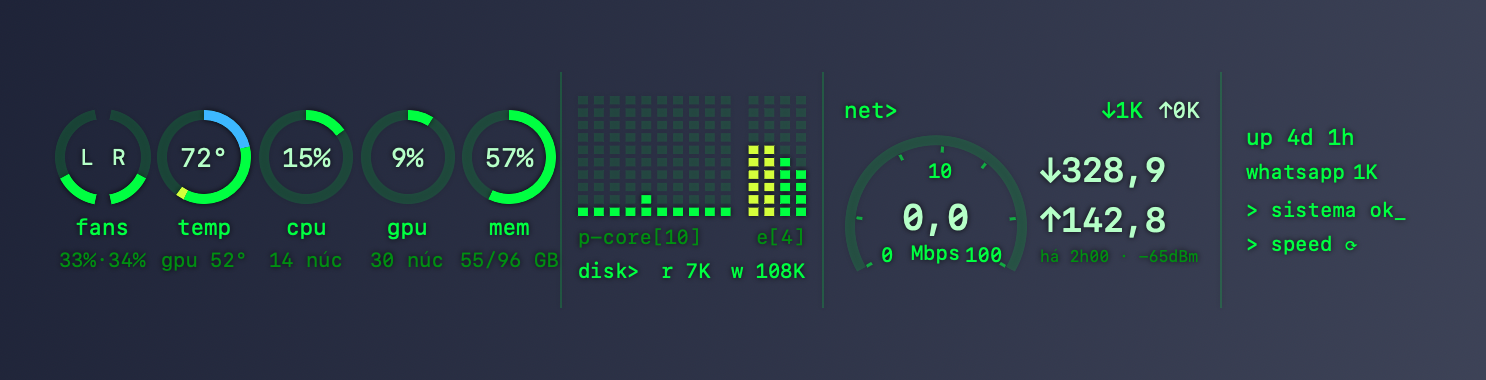
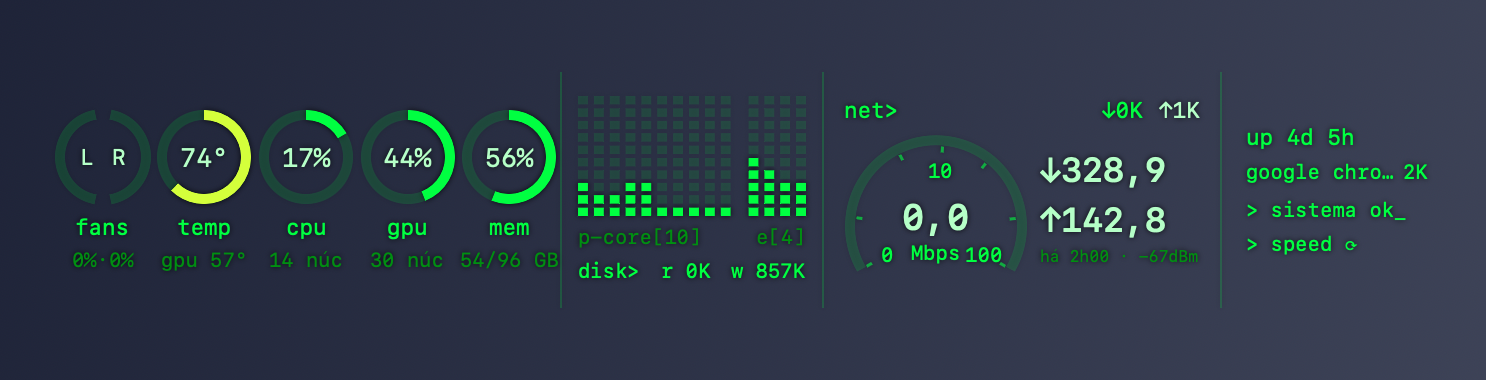
fix(temperature): one band color per ring and mean of the 3 hottest sensors
The multi-color arc was hard to read, and a single core spiking for a
moment showed alarming peaks (101 °C) that did not match the chip.

diff --git a/Sources/ePerformanceView/Status.swift b/Sources/ePerformanceView/Status.swift
@@ -42,7 +42,7 @@ enum Level: Int, Comparable {
 }
 
 /// One gauge: a ring filled to `value` (0...100), colored by `level`, with a symbol inside.
-/// A `heat` gauge is painted cold-to-hot along the arc instead of with one level color.
+/// A `heat` gauge takes the color of its cold-to-hot band (blue, green, yellow, red).
 struct Gauge {
     let symbol: String
     let value: Double?          // nil = not available (no fan)
@@ -51,7 +51,7 @@ struct Gauge {
     var heat = false
 }
 
-/// Cold-to-hot scale for temperatures: the ring spans 30-100 °C and changes color at each band.
+/// Cold-to-hot scale for temperatures: the ring spans 30-100 °C and its color is the current band.
 enum Heat {
     static let floor = 30.0, ceiling = 100.0
     /// Upper bound of each band and its color, coldest first.
@@ -66,19 +66,6 @@ enum Heat {
     static func fraction(_ celsius: Double) -> Double { max(0, min(1, (celsius - floor) / (ceiling - floor))) }
     static func band(_ celsius: Double) -> (upTo: Double, name: String, color: NSColor) {
         bands.first { celsius < $0.upTo } ?? bands[bands.count - 1]
-    }
-
-    /// The filled part of the ring split into colored pieces, as (from, to) fractions.
-    static func segments(upTo celsius: Double) -> [(from: Double, to: Double, color: NSColor)] {
-        let end = max(0.04, fraction(celsius))
-        var start = 0.0, result: [(Double, Double, NSColor)] = []
-        for band in bands {
-            let stop = min(end, band.upTo.isFinite ? fraction(band.upTo) : 1)
-            if stop > start { result.append((start, stop, band.color)) }
-            start = stop
-            if start >= end { break }
-        }
-        return result
     }
 }
 
@@ -204,14 +191,14 @@ enum MenuBarImage {
         guard let value else { return }
 
         if heat {
-            for piece in Heat.segments(upTo: value) {
-                let arc = NSBezierPath()
-                arc.appendArc(withCenter: center, radius: radius, startAngle: 90 - 360 * piece.from,
-                              endAngle: 90 - 360 * piece.to, clockwise: true)
-                arc.lineWidth = 2.2
-                piece.color.setStroke()
-                arc.stroke()
-            }
+            // One color for the whole arc, the band the temperature is in now.
+            let arc = NSBezierPath()
+            arc.appendArc(withCenter: center, radius: radius, startAngle: 90,
+                          endAngle: 90 - 360 * max(0.04, Heat.fraction(value)), clockwise: true)
+            arc.lineWidth = 2.2
+            arc.lineCapStyle = .round
+            Heat.band(value).color.setStroke()
+            arc.stroke()
             return
         }
         let fraction = max(0.04, min(1, value / 100))

diff --git a/Sources/ePerformanceView/DesktopWidget.swift b/Sources/ePerformanceView/DesktopWidget.swift
@@ -307,7 +307,7 @@ struct MatrixRing: View {
     }
 }
 
-/// Temperature ring: the filled arc is painted cold (blue) to hot (red) along the way, like the menu bar gauge.
+/// Temperature ring in one color, the current cold-to-hot band, like the menu bar gauge.
 struct MatrixHeatRing: View {
     let celsius: Double?
     let lineWidth: CGFloat
@@ -316,18 +316,9 @@ struct MatrixHeatRing: View {
     private static let colors = [MatrixTheme.cold, MatrixTheme.green, MatrixTheme.warn, MatrixTheme.critical]
 
     var body: some View {
-        ZStack {
-            Circle().stroke(MatrixTheme.green.opacity(0.15), lineWidth: lineWidth)
-            if let celsius {
-                ForEach(Array(Heat.segments(upTo: celsius).enumerated()), id: \.offset) { i, piece in
-                    Circle()
-                        .trim(from: piece.from, to: piece.to)
-                        .stroke(Self.colors[min(i, Self.colors.count - 1)], style: StrokeStyle(lineWidth: lineWidth, lineCap: .butt))
-                        .rotationEffect(.degrees(-90))
-                }
-            }
-        }
-        .frame(width: radius * 2, height: radius * 2)
+        MatrixRing(fraction: celsius.map(Heat.fraction) ?? 0, lineWidth: lineWidth,
+                   color: celsius.map { t in Self.colors[Heat.bands.firstIndex { t < $0.upTo } ?? Self.colors.count - 1] } ?? .clear,
+                   radius: radius)
     }
 }
 

diff --git a/Sources/ePerformanceView/SMC.swift b/Sources/ePerformanceView/SMC.swift
@@ -83,7 +83,7 @@ final class SMC {
         var fraction: Double { max > 0 ? Swift.max(0, Swift.min(1, rpm / max)) : 0 }
     }
 
-    /// Hottest reading per area, in °C; nil when this Mac exposes no sensor for it.
+    /// Per area, the mean of its 3 hottest sensors in °C; nil when this Mac exposes no sensor for it.
     struct Temperatures: Equatable {
         var cpu: Double?
         var gpu: Double?
@@ -121,7 +121,9 @@ final class SMC {
         for (area, keys) in fullScan ? temperatureKeys : hotKeys {
             // Unused sensors read 0 or nonsense; keep plausible die/board values only.
             let readings = keys.compactMap { key in number(key).map { (key, $0) } }.filter { $0.1 > 5 && $0.1 < 130 }
-            t[keyPath: area] = readings.map(\.1).max()
+            // Mean of the 3 hottest sensors: one core can spike for a split second, which says little.
+            let hottest = readings.map(\.1).sorted(by: >).prefix(3)
+            t[keyPath: area] = hottest.isEmpty ? nil : hottest.reduce(0, +) / Double(hottest.count)
             if fullScan {
                 hotKeys[area] = readings.sorted { $0.1 > $1.1 }.prefix(Self.hotKeysPerArea).map(\.0)
             }

diff --git a/README.md b/README.md
@@ -11,7 +11,7 @@ Também identifica apps parados que podem ser fechados para liberar memória e d
 ![barra de menus, tema escuro](docs/menubar-dark.png)
 ![barra de menus, tema claro](docs/menubar-light.png)
 
-Ventoinha, CPU e memória com anéis verde/amarelo/vermelho, e a temperatura num anel de frio a calor (azul → verde → amarelo → vermelho). Ao lado, a internet: **↓ download** e **↑ upload** agora (Mbps) e, à direita, a velocidade do último teste. O círculo com número aparece quando há app sugerido para fechar.
+Ventoinha, CPU e memória com anéis verde/amarelo/vermelho, e a temperatura num anel que fica azul (fria), verde (normal), amarelo (morna) ou vermelho (quente). Ao lado, a internet: **↓ download** e **↑ upload** agora (Mbps) e, à direita, a velocidade do último teste. O círculo com número aparece quando há app sugerido para fechar.
 
 ## Widget na área de trabalho
 
